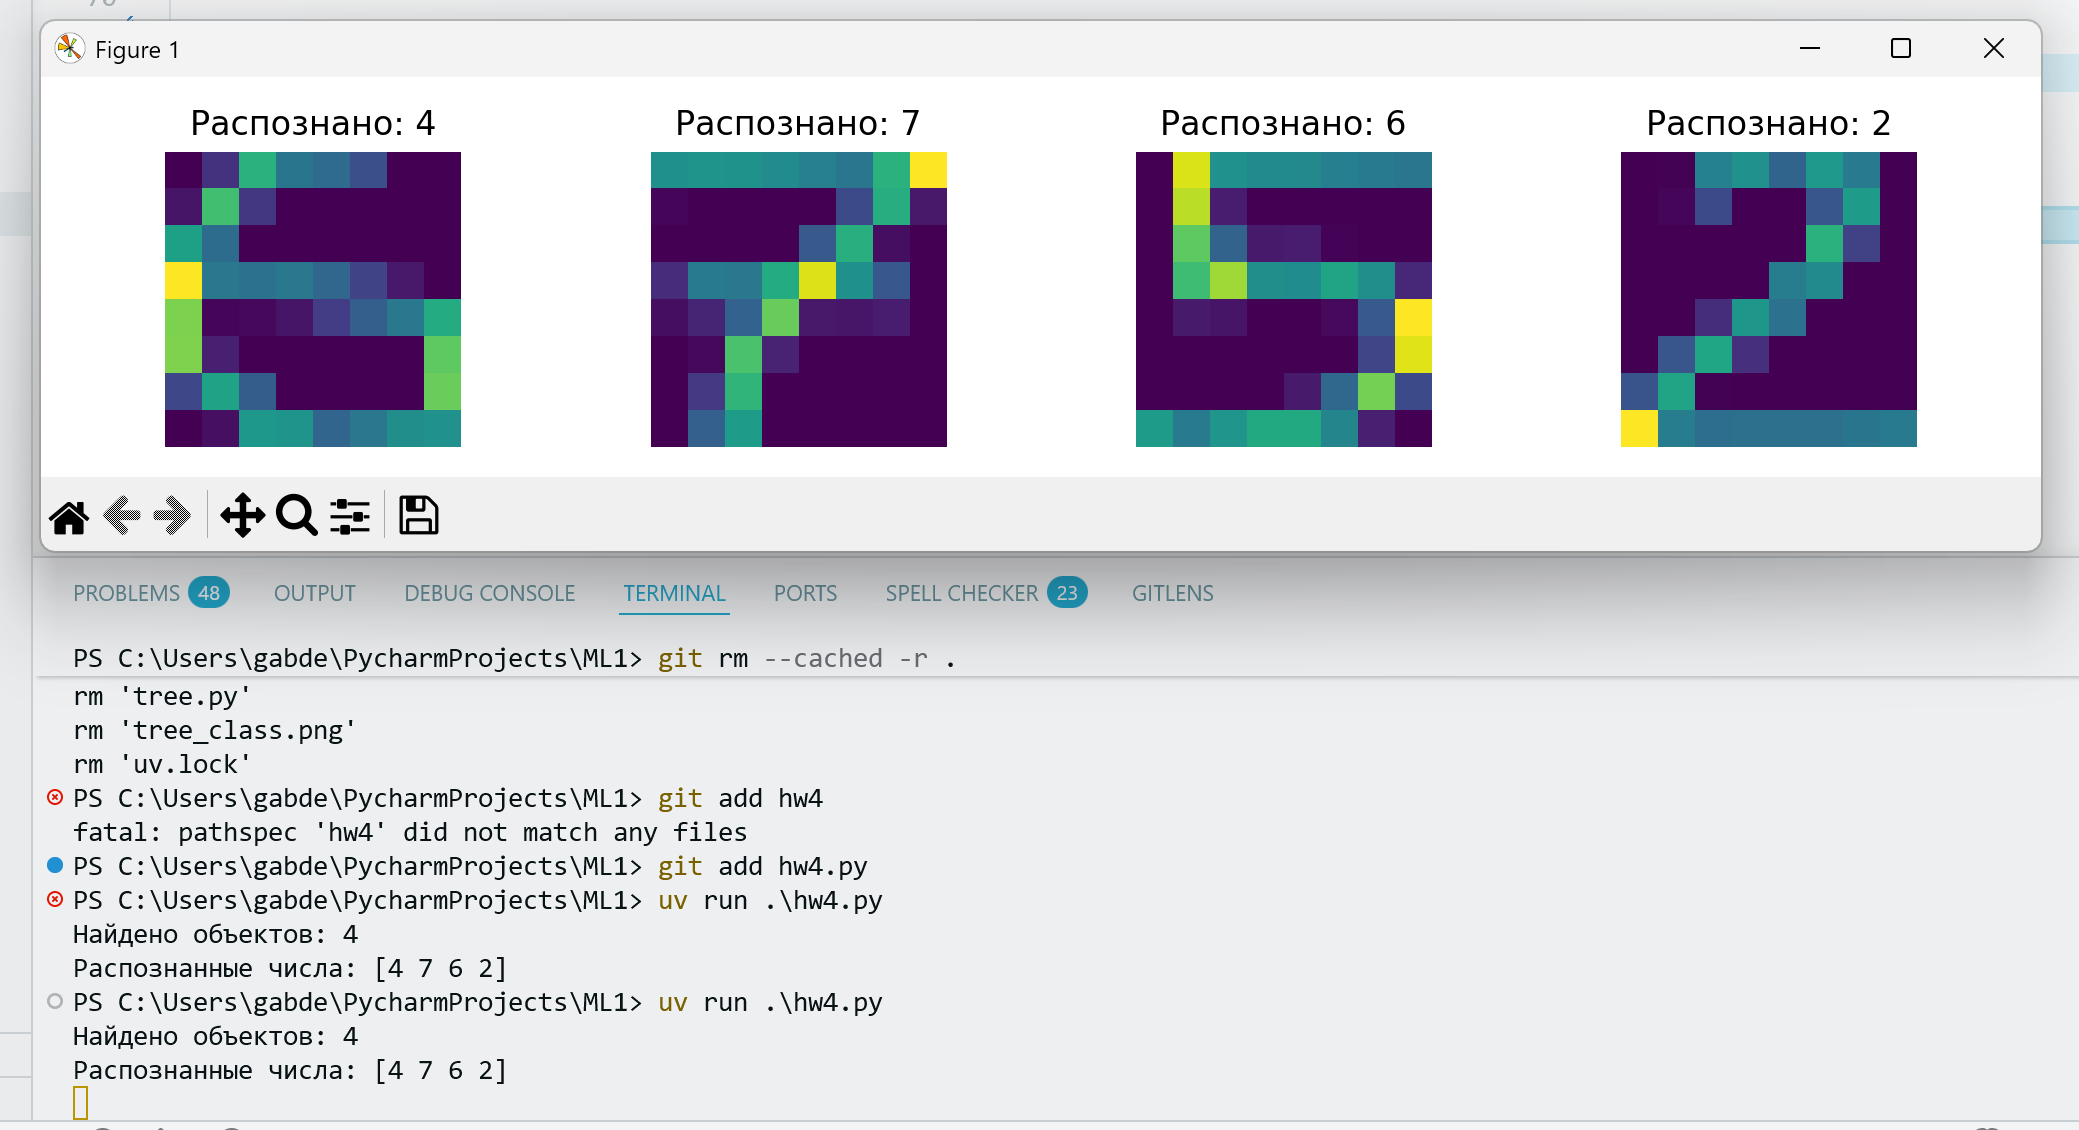
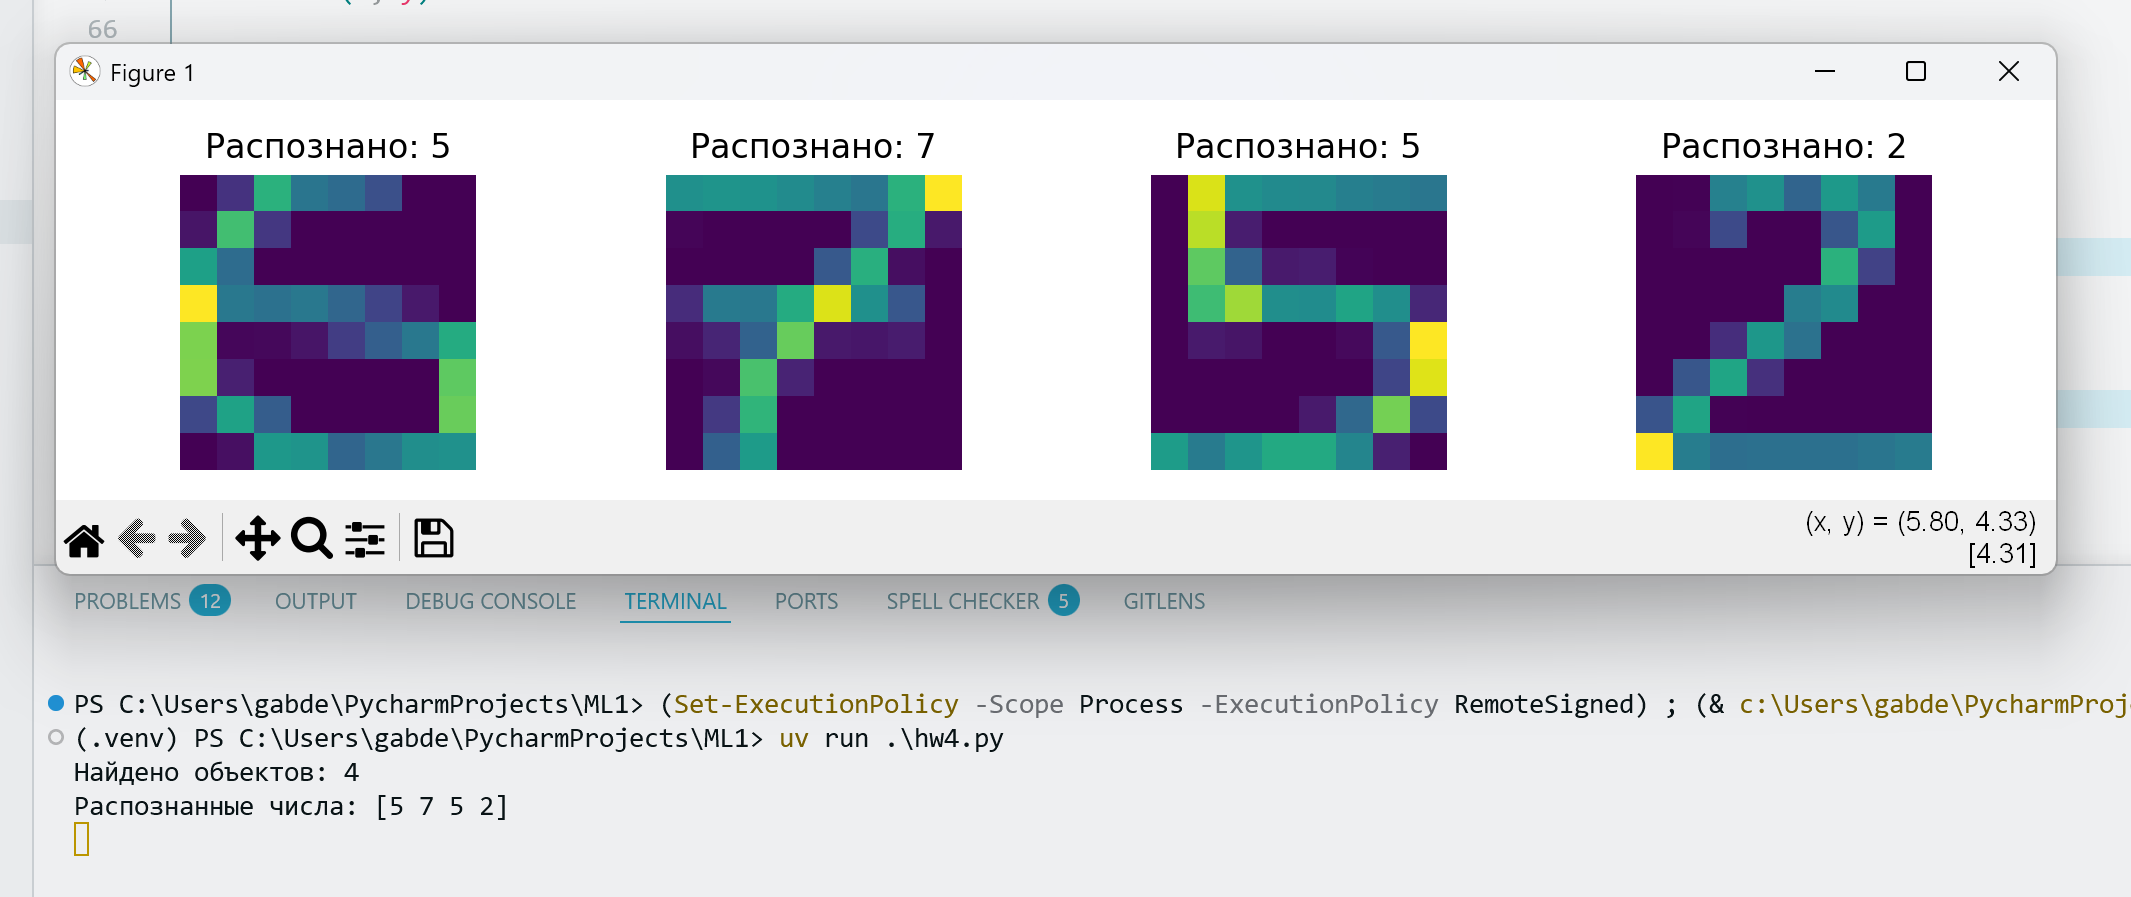
забыл что надо сделать без нейросетей

diff --git a/hw4.py b/hw4.py
@@ -1,7 +1,7 @@
 import numpy as np
 from sklearn.cluster import DBSCAN
 from sklearn.datasets import load_digits
-from sklearn.neural_network import MLPClassifier
+from sklearn.ensemble import RandomForestClassifier
 import matplotlib.pyplot as plt
 from PIL import Image
 
@@ -26,7 +26,7 @@ def main():
 
     # Разделяем цифры через DBSCAN
     # eps=15 подбирается под разрешение картинки
-    dbscan = DBSCAN(eps=15, min_samples=10)
+    dbscan = DBSCAN(eps=10, min_samples=5)
     dbscan.fit(points)
     labels = dbscan.labels_
     
@@ -51,30 +51,29 @@ def main():
         resized = Image.fromarray(crop).resize((8, 8))
         arr_8x8 = np.array(resized)
         
-        # В датасете load_digits фон = 0, цифры = до 16. 
-        # У нас фон = 255, цифры 0. Инвертируем и масштабируем.
+        # В датасете load_digits фон = 0, цифры = до 16
+        # У нас фон = 255, цифры 0. Инвертируем и масштабируем
         flat_feature = ((255 - arr_8x8) / 16.0).flatten()
         digit_features.append(flat_feature)
         
     digit_features = np.array(digit_features)
     print(f"Найдено объектов: {len(digit_features)}")
 
-    # Обучаем модель на встроенном датасете
     X, y = load_digits(return_X_y=True)
-    clf = MLPClassifier(hidden_layer_sizes=(100,), max_iter=1000, random_state=42)
+    clf = RandomForestClassifier(n_estimators=100, random_state=42)
     clf.fit(X, y)
     
     # Делаем предсказание на наших вырезанных цифрах
     predictions = clf.predict(digit_features)
     print(f"Распознанные числа: {predictions}")
     
-    # Визуализируем результат (чтобы препод видел, что всё корректно)
+    # Визуализируем резы
     fig, axes = plt.subplots(1, len(predictions), figsize=(10, 2))
     if len(predictions) == 1:
         axes = [axes]
     for i, ax in enumerate(axes):
-        ax.imshow(digit_features[i].reshape(8, 8), cmap='gray')
-        ax.set_title(f"Предсказание: {predictions[i]}")
+        ax.imshow(digit_features[i].reshape(8, 8))
+        ax.set_title(f"Распознано: {predictions[i]}")
         ax.axis('off')
     plt.tight_layout()
     plt.show()